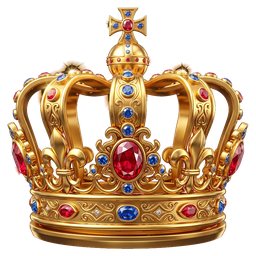
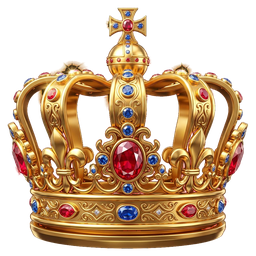
chore(art): исходники сжаты, добавлен воспроизводимый сборщик текстур
client/art/src ужат с 14 МБ до 1.3 МБ (JPEG 88), пайплайн вынесен в
scripts/build_symbols.py: кеинг фона по яркости, обрезка, квадрат, ресайз.
Пересобрать в другом размере — python3 scripts/build_symbols.py --size 512

Agent: arena-2026-08-20-R
Task: T-193

diff --git a/scripts/build_symbols.py b/scripts/build_symbols.py
@@ -1,0 +1,91 @@
+#!/usr/bin/env python3
+"""
+Сборка игровых текстур символов из исходных рендеров (T-193).
+
+Исходники (`client/art/src/*.jpg`) — рендеры на чёрном фоне. Скрипт
+переводит фон в альфу по яркости, обрезает по содержимому, центрирует в
+квадрате и масштабирует до игрового размера в `client/public/symbols/`.
+
+Порог сделан мягким (LOW…HIGH), иначе по краям объекта остаётся чёрная
+кайма: у полупрозрачных пикселей цвет подмешан с фоном, и его приходится
+осветлять обратно.
+
+Запуск:
+    python3 scripts/build_symbols.py            # 256px
+    python3 scripts/build_symbols.py --size 512
+"""
+from __future__ import annotations
+
+import argparse
+from pathlib import Path
+
+from PIL import Image
+
+ROOT = Path(__file__).resolve().parent.parent
+SRC = ROOT / "client" / "art" / "src"
+DST = ROOT / "client" / "public" / "symbols"
+
+LOW, HIGH = 12, 60      # границы перевода яркости фона в альфу
+PADDING = 1.06          # запас вокруг объекта, чтобы символы были одного масштаба
+
+
+def build(name: str, size: int) -> None:
+    source = SRC / f"{name}.jpg"
+    if not source.exists():
+        print(f"пропуск {name}: нет {source}")
+        return
+
+    im = Image.open(source).convert("RGB")
+    px = im.load()
+    w, h = im.size
+    out = Image.new("RGBA", (w, h))
+    op = out.load()
+
+    for y in range(h):
+        for x in range(w):
+            r, g, b = px[x, y]
+            lum = max(r, g, b)
+            if lum <= LOW:
+                op[x, y] = (0, 0, 0, 0)
+            elif lum >= HIGH:
+                op[x, y] = (r, g, b, 255)
+            else:
+                alpha = int((lum - LOW) / (HIGH - LOW) * 255)
+                k = 255 / max(lum, 1)
+                op[x, y] = (
+                    min(255, int(r * k * 0.7 + r * 0.3)),
+                    min(255, int(g * k * 0.7 + g * 0.3)),
+                    min(255, int(b * k * 0.7 + b * 0.3)),
+                    alpha,
+                )
+
+    box = out.getbbox()
+    if box is None:
+        print(f"пропуск {name}: пустое изображение")
+        return
+    out = out.crop(box)
+
+    side = int(max(out.size) * PADDING)
+    canvas = Image.new("RGBA", (side, side), (0, 0, 0, 0))
+    canvas.paste(out, ((side - out.width) // 2, (side - out.height) // 2))
+    canvas = canvas.resize((size, size), Image.LANCZOS)
+
+    DST.mkdir(parents=True, exist_ok=True)
+    target = DST / f"{name}.png"
+    canvas.save(target, optimize=True)
+    print(f"{name}: {im.size} -> {size}px, {target.stat().st_size // 1024} КБ")
+
+
+def main() -> None:
+    ap = argparse.ArgumentParser(description="Сборка текстур символов")
+    ap.add_argument("--size", type=int, default=256, help="сторона игровой текстуры")
+    ap.add_argument("--only", nargs="*", help="собрать только указанные символы")
+    args = ap.parse_args()
+
+    names = args.only or sorted(p.stem for p in SRC.glob("*.jpg"))
+    for name in names:
+        build(name, args.size)
+
+
+if __name__ == "__main__":
+    main()

diff --git a/client/art/README.md b/client/art/README.md
@@ -1,0 +1,9 @@
+# art/ — исходники символов
+
+`src/*.jpg` — рендеры 1024×1024 на чёрном фоне, как они пришли из генератора.
+Игровые текстуры получаются из них скриптом `scripts/build_symbols.py`:
+фон вырезается в альфу по яркости, изображение обрезается по содержимому,
+приводится к квадрату и масштабируется до 256×256 в `client/public/symbols/`.
+
+Клиент использует **только** `public/symbols/`. Исходники нужны, чтобы
+пересобрать текстуры в другом размере или подправить кеинг фона.
